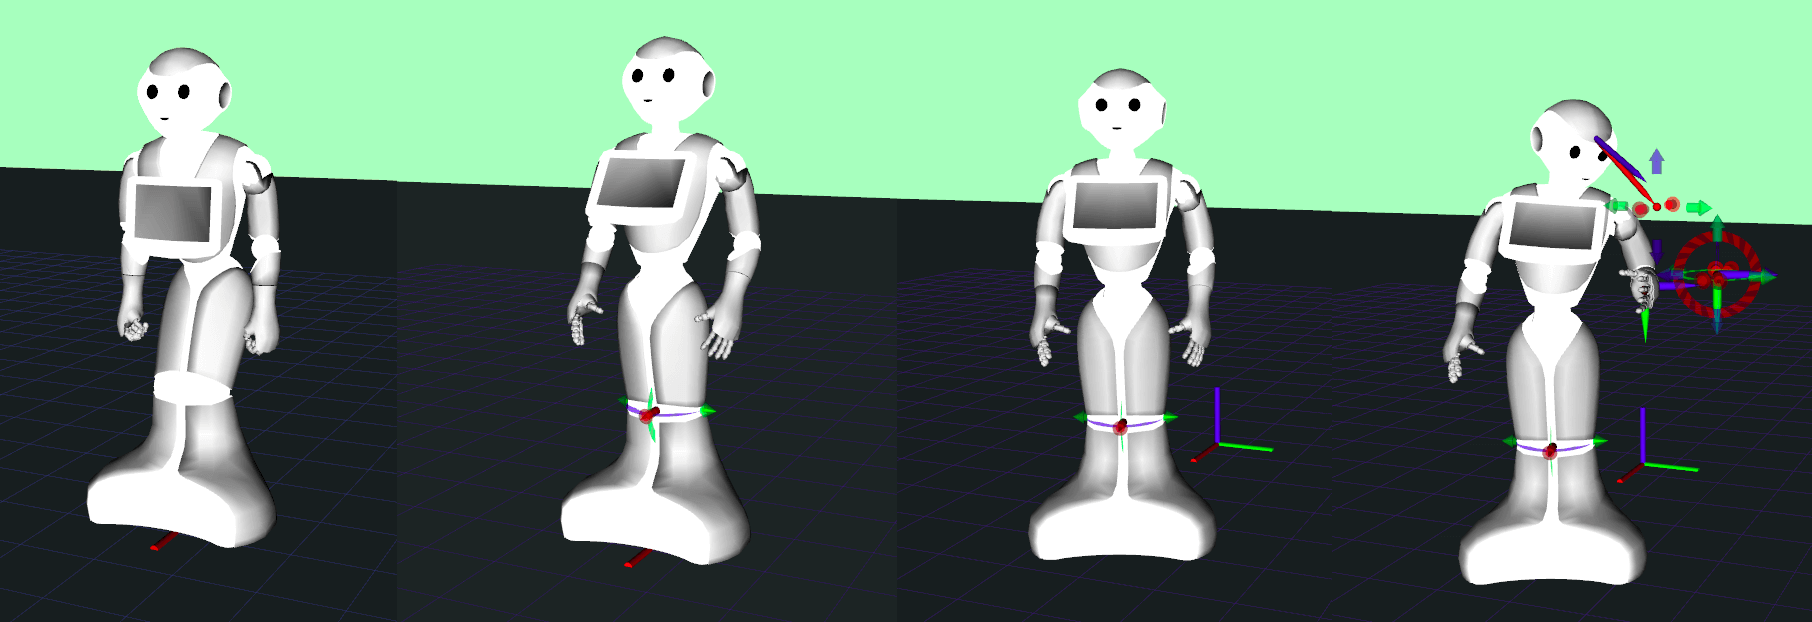
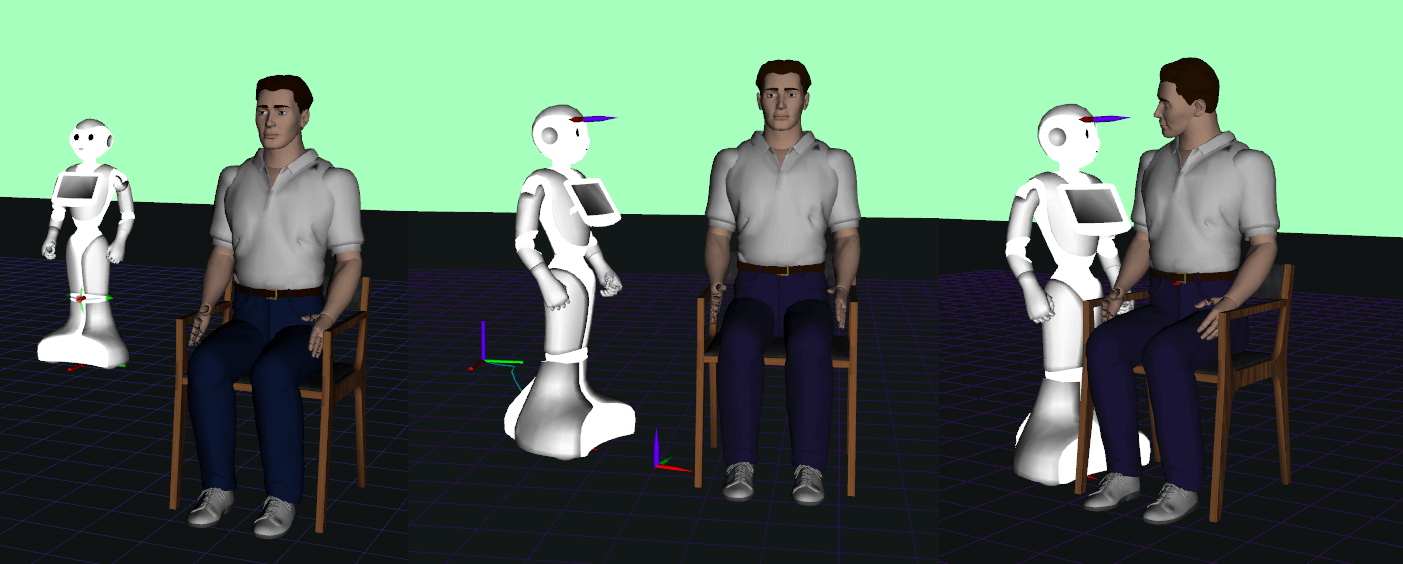
README update

diff --git a/README.md b/README.md
@@ -1,12 +1,27 @@
 # PepperFSMController
 
+---
+
+## `topic/withHumanModel` branch
+
+On this branch of a sample Pepper FSM `mc_rtc` controller we add two new objects to our controller
+
+* Human model from [`mc_human`](https://gite.lirmm.fr/nana/mc_human)
+* Chair model from [`mc_rtc_data`](https://github.com/jrl-umi3218/mc_rtc_data)
+
+This is an example of multi-robot `mc_rtc` controller
+
+You can see sample **`NavigateToHuman`** FSM state for basic multi-robot interaction example
+
+---
+
+![PepperFSMController](doc/pepperfsmcontroller.png "PepperFSMController")
+
 This is a base [`mc_rtc`](https://github.com/jrl-umi3218/mc_rtc) FSM (finite-state machine) controller for Pepper humanoid robot.
 
 The goal of this controller is to gather all **Pepper robot specific controller elements** that are very likely to be used by any `mc_rtc` FSM controller with Pepper as a `MainRobot`.
 
 This way users writing `mc_rtc` controller for Pepper do not need to add these elements again every time, but can use this controller as a **starting point** and a **basic example**.
-
-![PepperFSMController](doc/pepperfsmcontroller.png "PepperFSMController")
 
 If you need to create a new `mc_rtc` controller that uses Peppper as a `MainRobot`, it is highly recommended to use this repository as a starting point for your project. You can either fork this repository or duplicate it by making a bare clone then pushing it to your repository:
 
@@ -22,6 +37,7 @@ $ rm -rf PepperFSMController.git
 
 * [`mc_rtc`](https://jrl-umi3218.github.io/mc_rtc/tutorials/introduction/installation-guide.html)
 * [`mc_pepper`](https://gite.lirmm.fr/multi-contact/mc_pepper)
+* [`mc_human`](https://gite.lirmm.fr/multi-contact/mc_human)
 
 
 ## List of Pepper specific controller elements:
@@ -29,6 +45,7 @@ $ rm -rf PepperFSMController.git
 * **BoundedAccelerationConstr** - acceleration bounds for mobile base
 * **CoMRelativeBodyTask** - for defining CoM (center of mass) target wrt mobile base frame
 * **dynamicsConstraint** - with modified torque limits for mobile base actuation
+* **camOpticalFrame** - name of robot camera optical frame
 * **uprightStanding** - posture target
 * **mobileBaseTask** - high weight mobile base position task (must be always in solver)
 * **comPlot** (bool true/false) - option to add CoM projection plot
@@ -44,6 +61,7 @@ Besides the default `mc_rtc` FSM states (such as `HalfSitting`, `Pause_1s`, `Pau
 * **HandTaskStateRight** - right end-effector task
 * **HandTaskStateBoth** - state with end-effector tasks for both end-effectors
 * **Wait** - pause for 10s
+* **NavigateToHuman** - Pepper navigating to human model
 
 ## Example of custom tasks and constraints
 
@@ -91,10 +109,10 @@ To visualize controller state in [`RViz`](https://wiki.ros.org/rviz), you will f
 
 Run `roslaunch launch/display.launch]`, using [`display.launch`](launch/display.launch) file provided in this repository, to launch controller display `RViz` node.
 
-Once `RViz` node is started, configure it by clicking in `RViz` `File -> Open Config -> select file `[`mc_pepper_fsm_display.rviz`](launch/mc_pepper_fsm_display.rviz), provided in [`launch`](launch) folder in this repository
+Once `RViz` node is started, configure it by clicking in `RViz` `File -> Open Config -> select file `[`mc_pepper_fsm_withHuman_display.rviz`](launch/mc_pepper_fsm_withHuman_display.rviz), provided in [`launch`](launch) folder in this repository
 
 ##### Add RViz configuration to ROS path
 
-Optionally, you can configure `RViz` to use [`mc_pepper_fsm_display.rviz`](launch/mc_pepper_fsm_display.rviz) configuration automatically when running `roslaunch launch/display.launch` by adding it to your ROS path:
+Optionally, you can configure `RViz` to use [`mc_pepper_fsm_withHuman_display.rviz`](launch/mc_pepper_fsm_withHuman_display.rviz) configuration automatically when running `roslaunch launch/display.launch` by adding it to your ROS path:
 
-```cp launch/mc_pepper_fsm_display.rviz ~/.ros/```
+```cp launch/mc_pepper_fsm_withHuman_display.rviz ~/.ros/```
